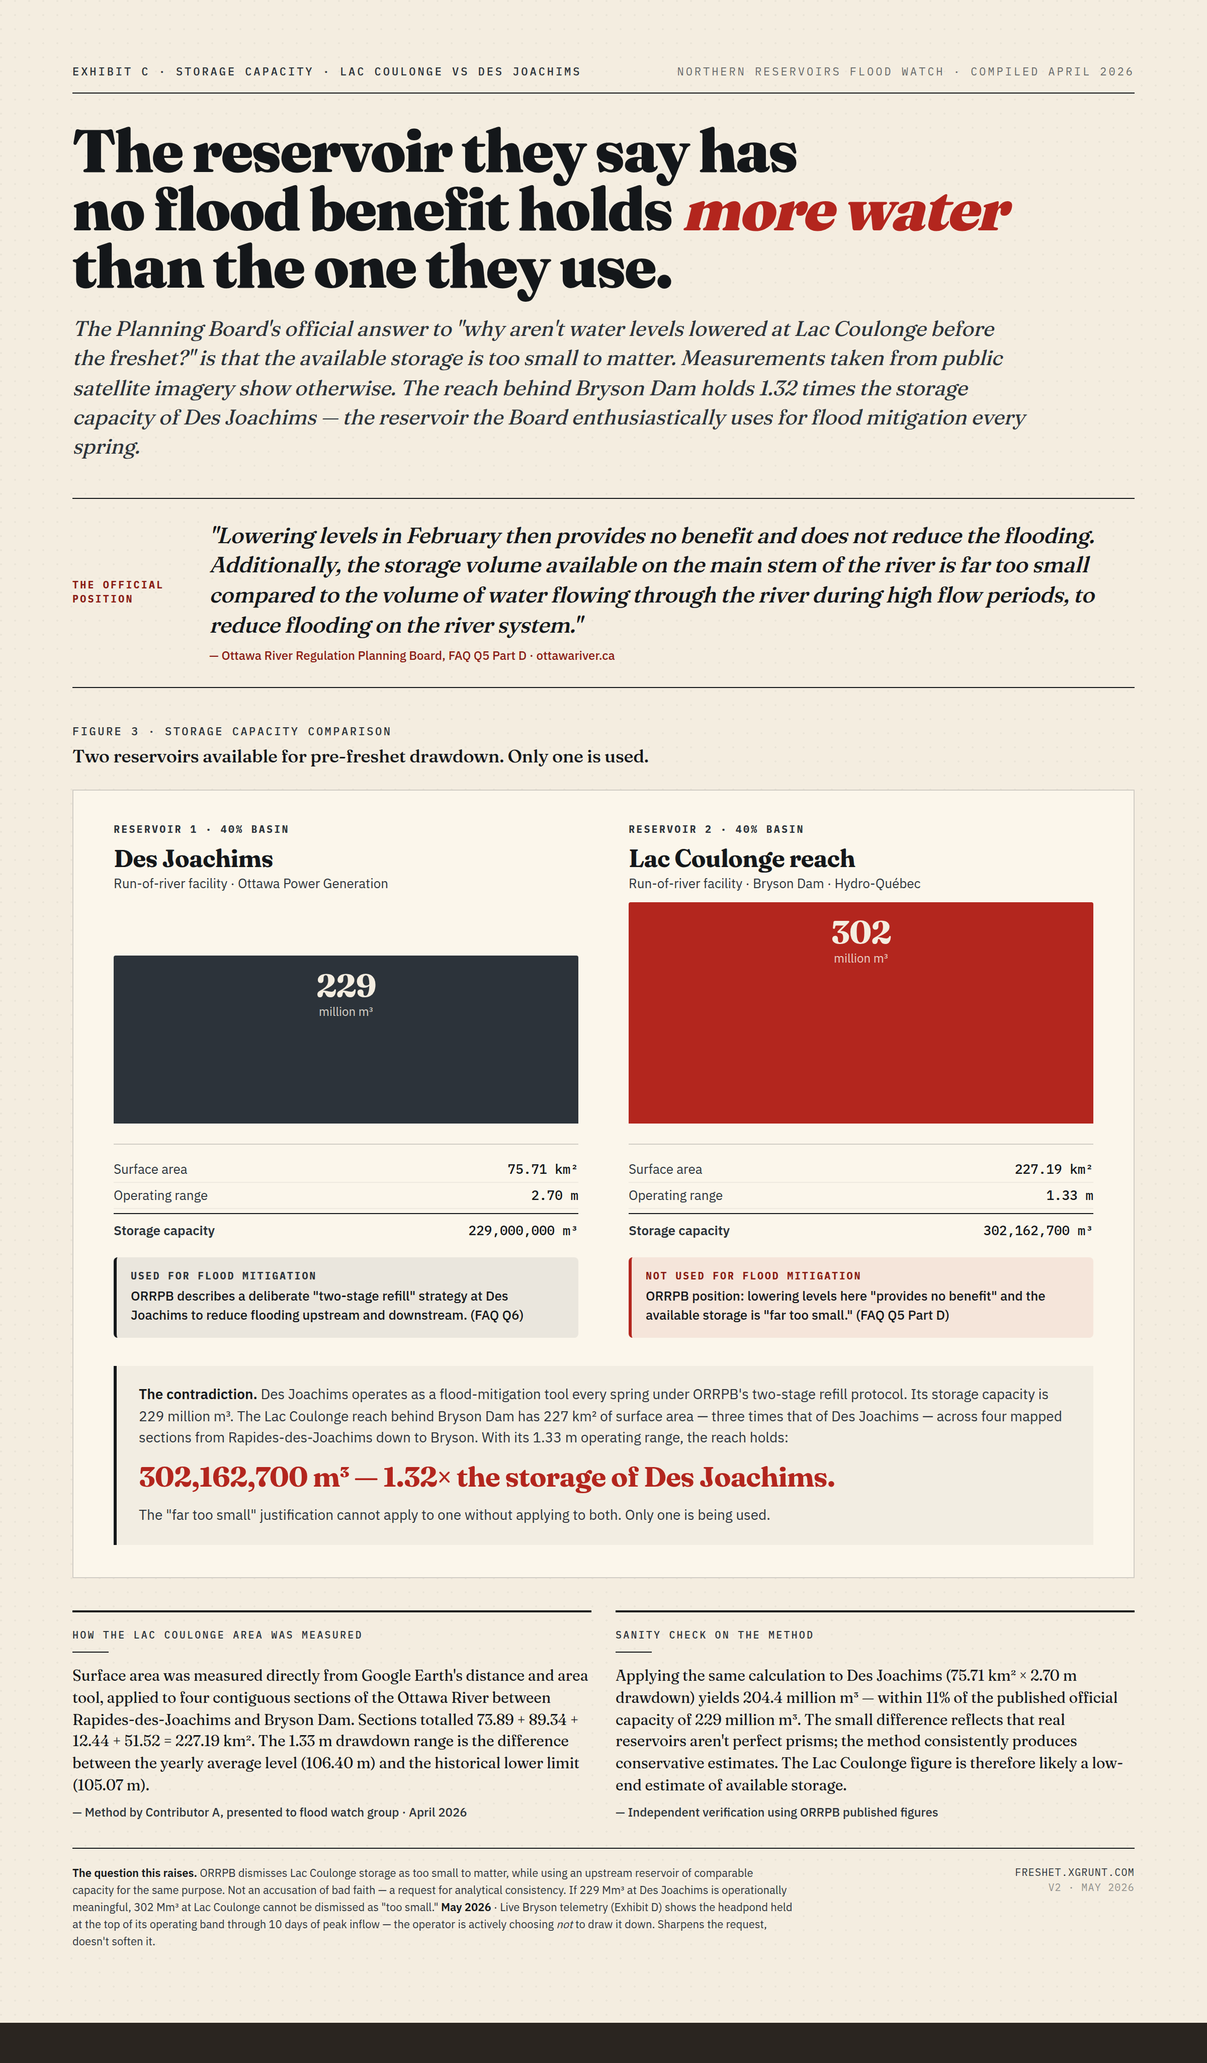
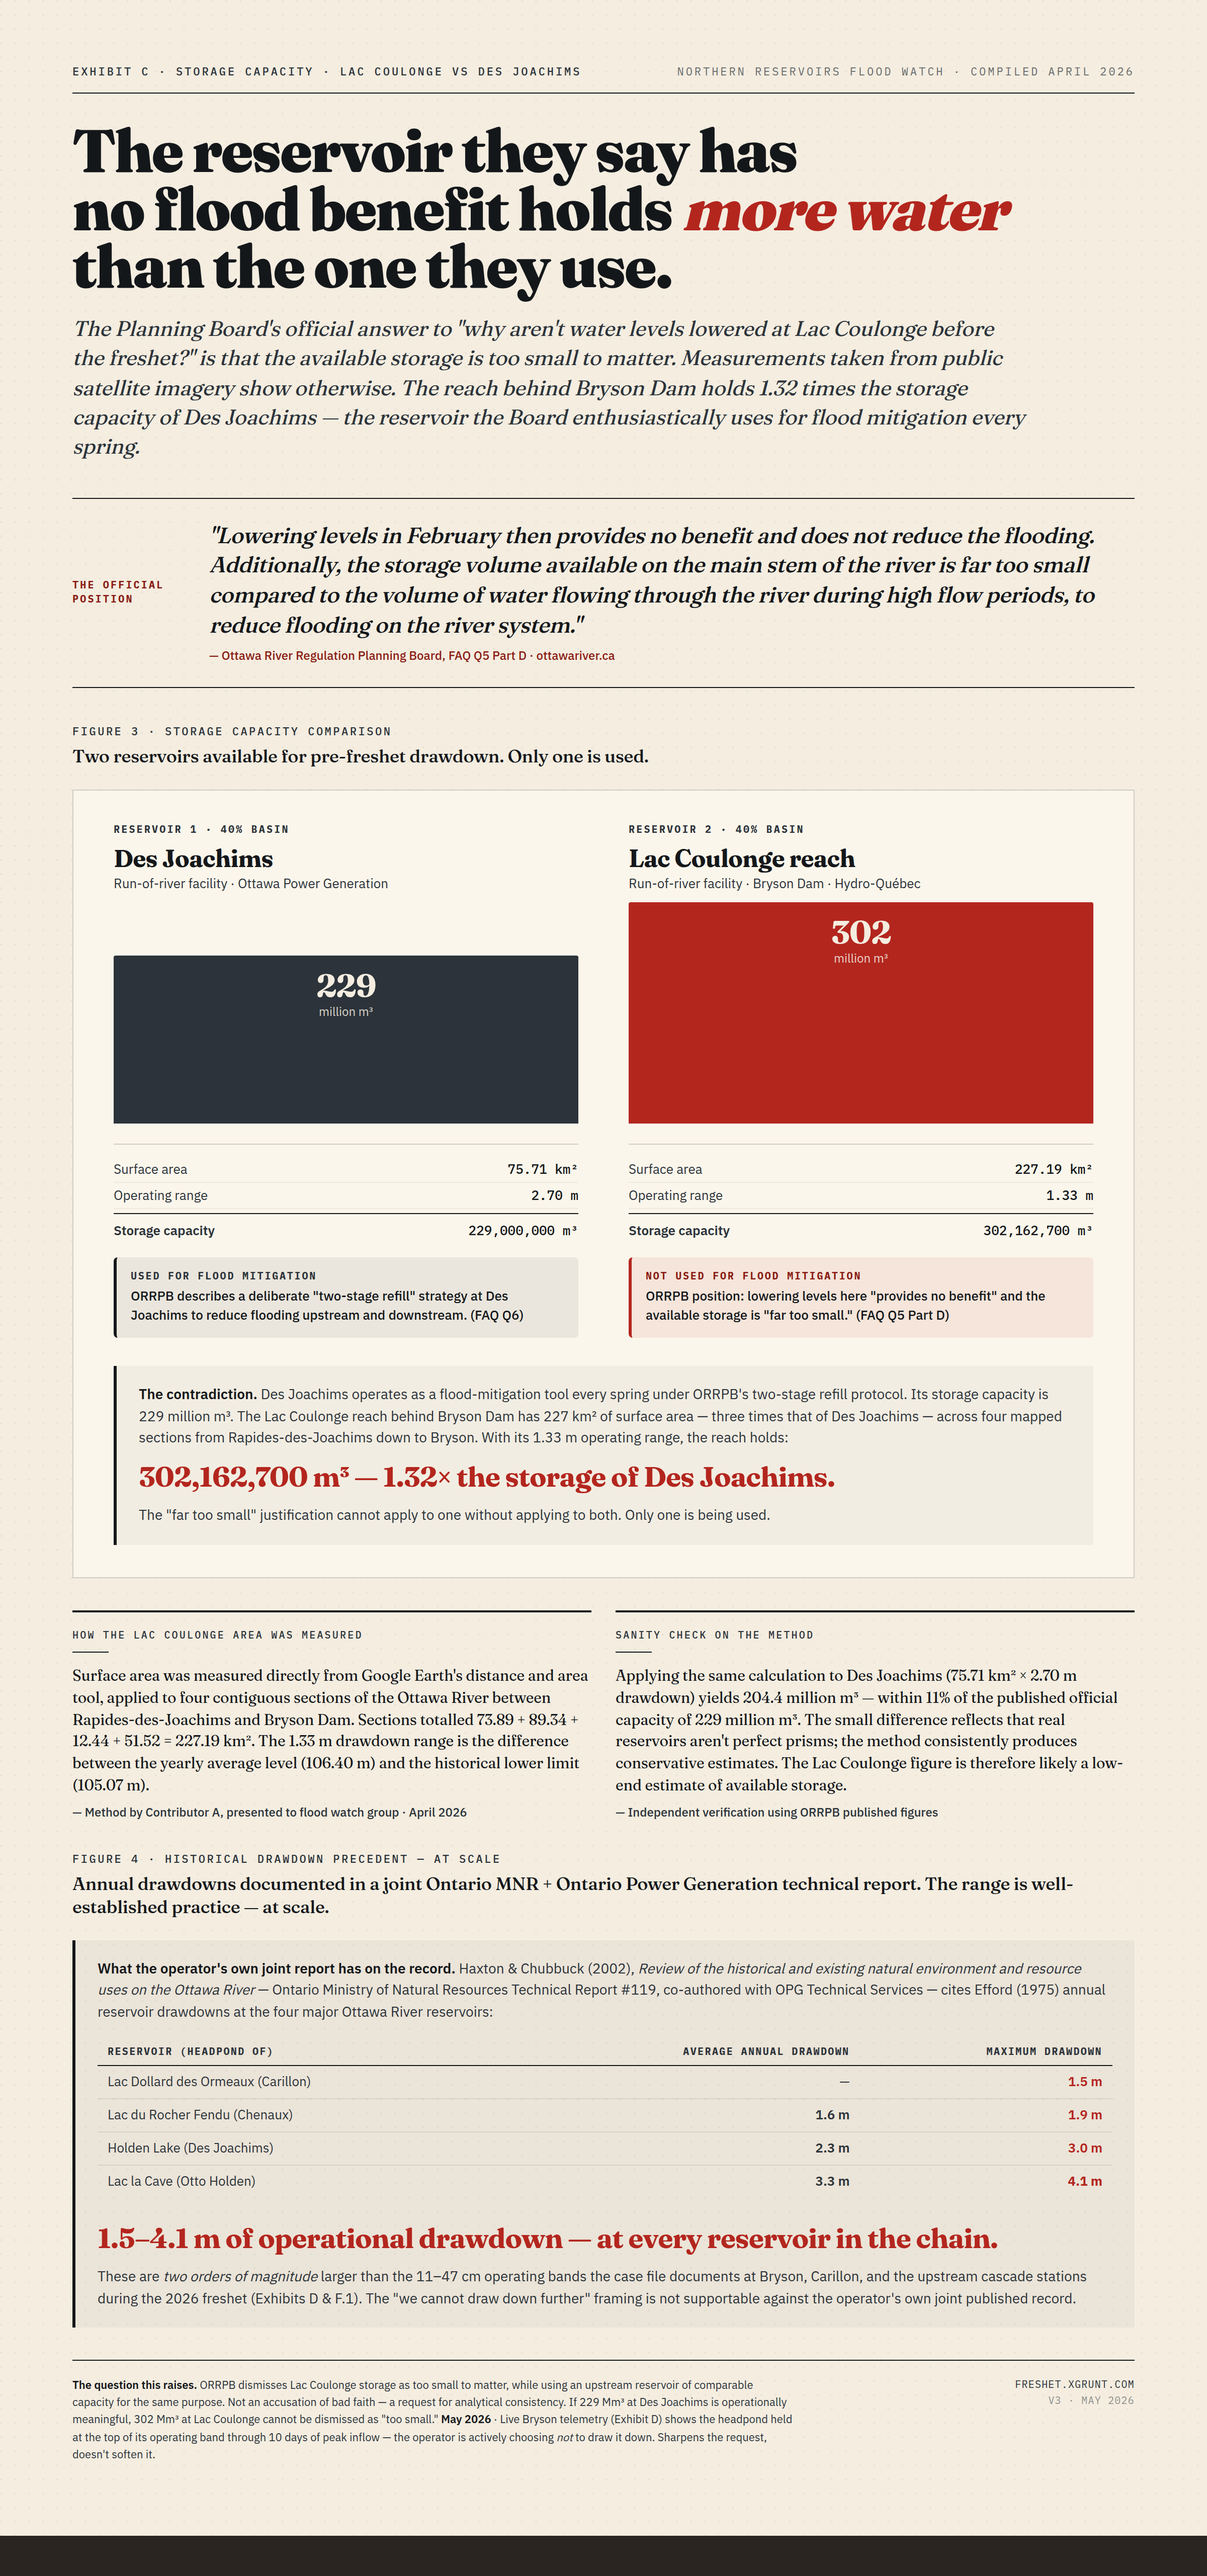
docs(freshet): Exhibit C v3 — add historical drawdown precedent panel
Updates the Exhibit C visual to match the analytical-doc additions
from the previous commit. Adds a Figure 4 panel after the methodology
grid with the Efford 1975 / Haxton & Chubbuck 2002 reservoir-scale
drawdown table:

  Lac Dollard des Ormeaux (Carillon): max 1.5 m
  Lac du Rocher Fendu (Chenaux):       avg 1.6 m, max 1.9 m
  Holden Lake (Des Joachims):          avg 2.3 m, max 3.0 m
  Lac la Cave (Otto Holden):           avg 3.3 m, max 4.1 m

Tagline: "1.5–4.1 m of operational drawdown — at every reservoir in
the chain." Frames the figures as primary-source from a joint
Ontario MNR + OPG technical report and notes they are two orders of
magnitude larger than the 11–47 cm operating bands the case file
documents in the 2026 freshet at Bryson, Carillon, and the upstream
cascade. The "we cannot draw down further" framing is not supportable
against this primary-source published record.

Version bump v2 → v3 in the footer.

Changed region(s): [[0.0, 0.0312, 1.0, 0.9985]]

diff --git a/docs/exhibits/Exhibit_C_Storage_Capacity.html b/docs/exhibits/Exhibit_C_Storage_Capacity.html
@@ -503,6 +503,34 @@ html, body {
   </div>
 </div>
 
+<!-- HISTORICAL PRECEDENT — Efford 1975 / Haxton & Chubbuck 2002 -->
+<div class="comparison-block" style="margin-top: 32px;">
+  <div class="comparison-title">Figure 4 · Historical drawdown precedent — at scale</div>
+  <div class="comparison-subtitle">Annual drawdowns documented in a joint Ontario MNR + Ontario Power Generation technical report. The range is well-established practice — at scale.</div>
+
+  <div class="math-callout" style="margin-top: 18px;">
+    <strong>What the operator's own joint report has on the record.</strong>
+    Haxton &amp; Chubbuck (2002), <em>Review of the historical and existing natural environment and resource uses on the Ottawa River</em> — Ontario Ministry of Natural Resources Technical Report #119, co-authored with OPG Technical Services — cites Efford (1975) annual reservoir drawdowns at the four major Ottawa River reservoirs:
+    <table style="width:100%; border-collapse:collapse; margin-top:14px; font-size:13px; font-variant-numeric: tabular-nums;">
+      <thead>
+        <tr style="font-family:'IBM Plex Mono',monospace; font-size:10px; letter-spacing:0.12em; text-transform:uppercase; color:var(--ink-soft);">
+          <th style="text-align:left; padding:6px 10px; border-bottom:1.5px solid var(--rule);">Reservoir (headpond of)</th>
+          <th style="text-align:right; padding:6px 10px; border-bottom:1.5px solid var(--rule);">Average annual drawdown</th>
+          <th style="text-align:right; padding:6px 10px; border-bottom:1.5px solid var(--rule);">Maximum drawdown</th>
+        </tr>
+      </thead>
+      <tbody>
+        <tr><td style="padding:6px 10px; border-bottom:1px solid rgba(0,0,0,0.08);">Lac Dollard des Ormeaux (Carillon)</td><td style="text-align:right; padding:6px 10px; border-bottom:1px solid rgba(0,0,0,0.08);">—</td><td style="text-align:right; padding:6px 10px; border-bottom:1px solid rgba(0,0,0,0.08); font-weight:600; color:var(--accent);">1.5 m</td></tr>
+        <tr><td style="padding:6px 10px; border-bottom:1px solid rgba(0,0,0,0.08);">Lac du Rocher Fendu (Chenaux)</td><td style="text-align:right; padding:6px 10px; border-bottom:1px solid rgba(0,0,0,0.08); font-weight:600;">1.6 m</td><td style="text-align:right; padding:6px 10px; border-bottom:1px solid rgba(0,0,0,0.08); font-weight:600; color:var(--accent);">1.9 m</td></tr>
+        <tr><td style="padding:6px 10px; border-bottom:1px solid rgba(0,0,0,0.08);">Holden Lake (Des Joachims)</td><td style="text-align:right; padding:6px 10px; border-bottom:1px solid rgba(0,0,0,0.08); font-weight:600;">2.3 m</td><td style="text-align:right; padding:6px 10px; border-bottom:1px solid rgba(0,0,0,0.08); font-weight:600; color:var(--accent);">3.0 m</td></tr>
+        <tr><td style="padding:6px 10px;">Lac la Cave (Otto Holden)</td><td style="text-align:right; padding:6px 10px; font-weight:600;">3.3 m</td><td style="text-align:right; padding:6px 10px; font-weight:700; color:var(--accent);">4.1 m</td></tr>
+      </tbody>
+    </table>
+    <span class="ratio" style="margin-top:18px;">1.5–4.1 m of operational drawdown — at every reservoir in the chain.</span>
+    These are <em>two orders of magnitude</em> larger than the 11–47 cm operating bands the case file documents at Bryson, Carillon, and the upstream cascade stations during the 2026 freshet (Exhibits D &amp; F.1). The "we cannot draw down further" framing is not supportable against the operator's own joint published record.
+  </div>
+</div>
+
 <!-- FOOTER -->
 <div class="footer">
   <div class="left">
@@ -511,7 +539,7 @@ html, body {
   </div>
   <div class="right">
     freshet.xgrunt.com<br>
-    <span style="opacity:0.5">v2 · MAY 2026</span>
+    <span style="opacity:0.5">v3 · MAY 2026</span>
   </div>
 </div>
 
